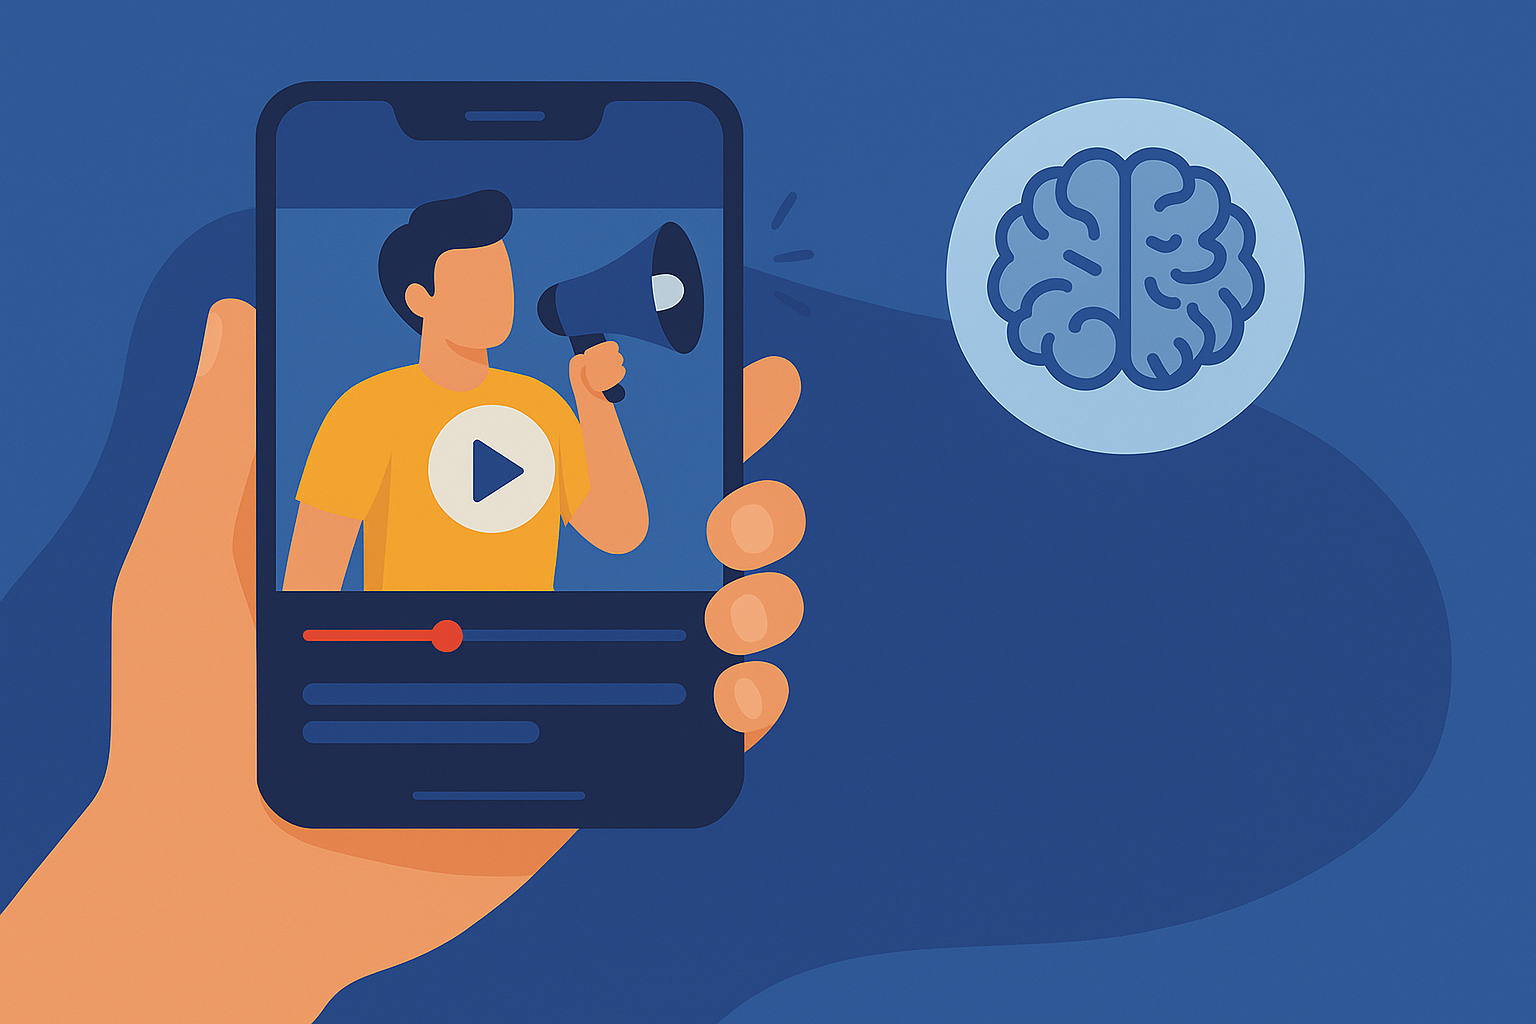
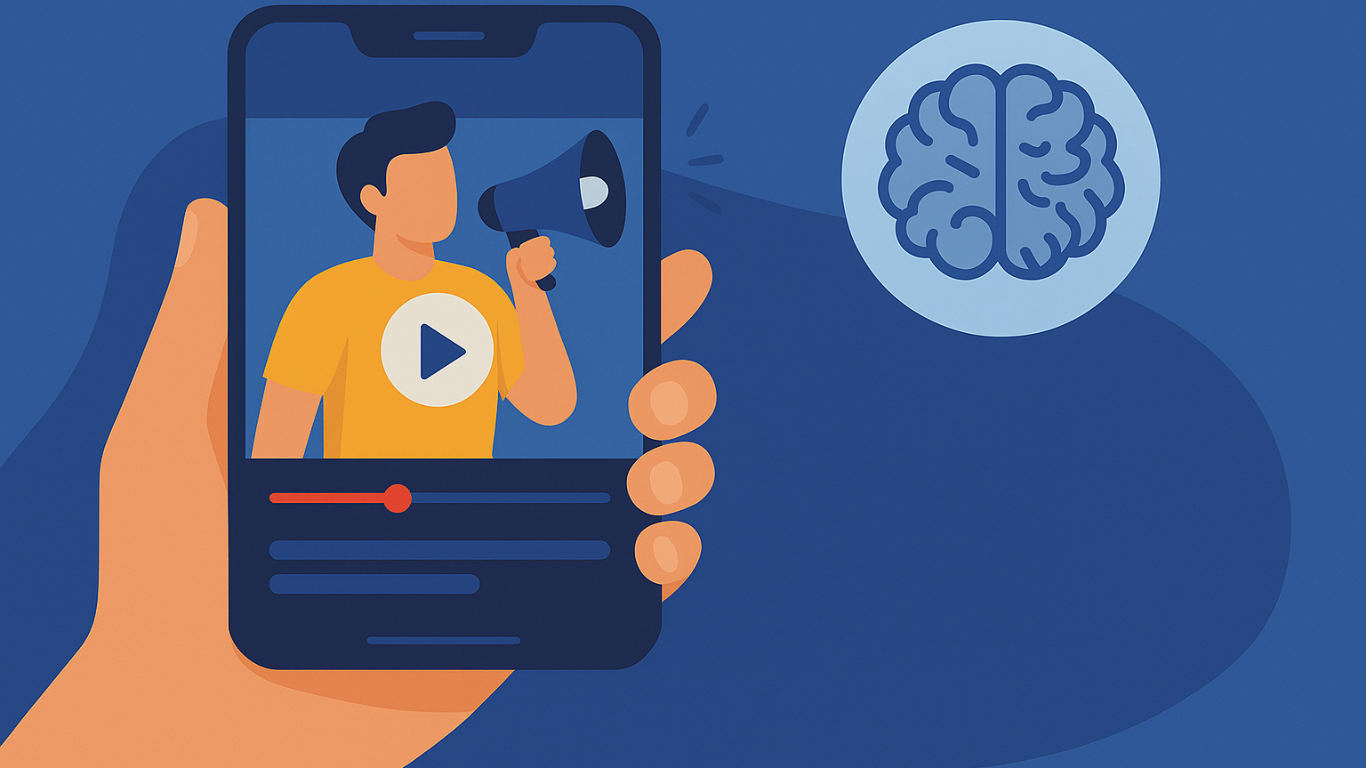
hero bg change

diff --git a/src/components/home/HeroSection.tsx b/src/components/home/HeroSection.tsx
@@ -1,9 +1,9 @@
 export default function HeroSection() {
   return (
     <section
-      className="relative bg-contain bg-no-repeat bg-center text-white min-h-[60vh] flex items-center justify-center px-6"
+      className="relative bg-cover bg-center text-white min-h-[60vh] flex items-center justify-center px-6"
       style={{
-        backgroundImage: "url('./images/hero-bg.png')",
+        backgroundImage: "url('/images/hero-bg.png')",
       }}
     >
       {/* Overlay for contrast */}
